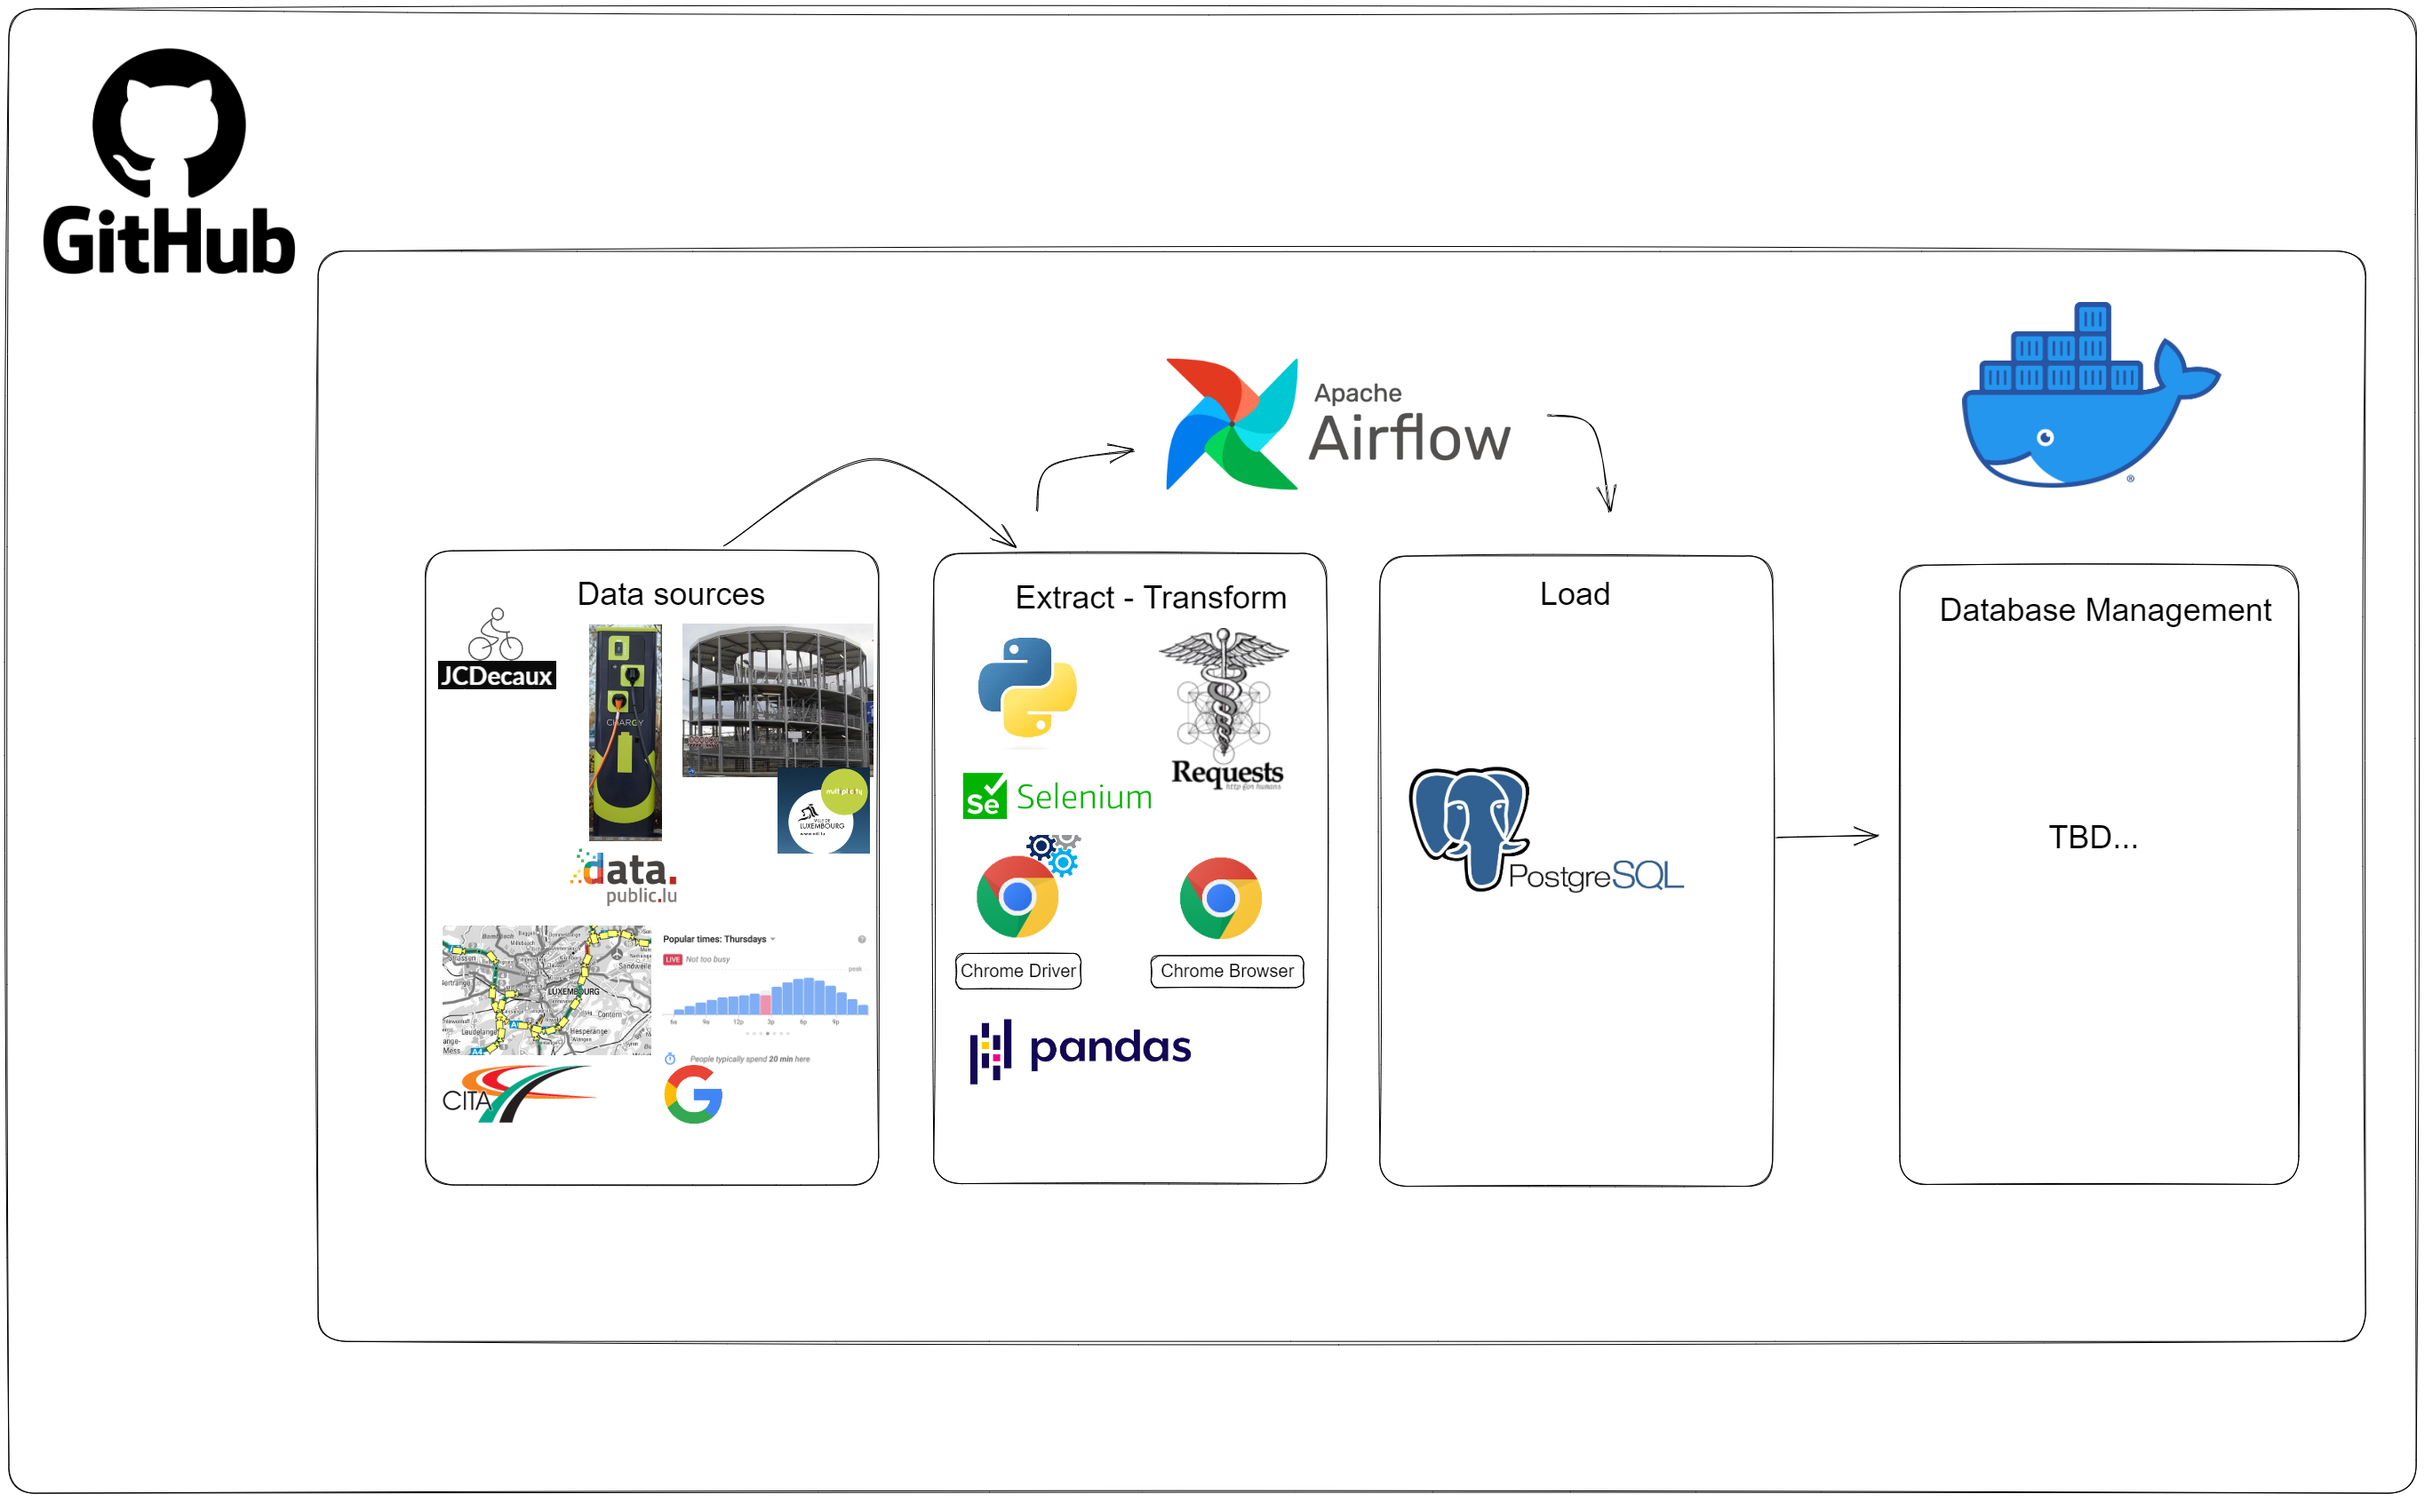
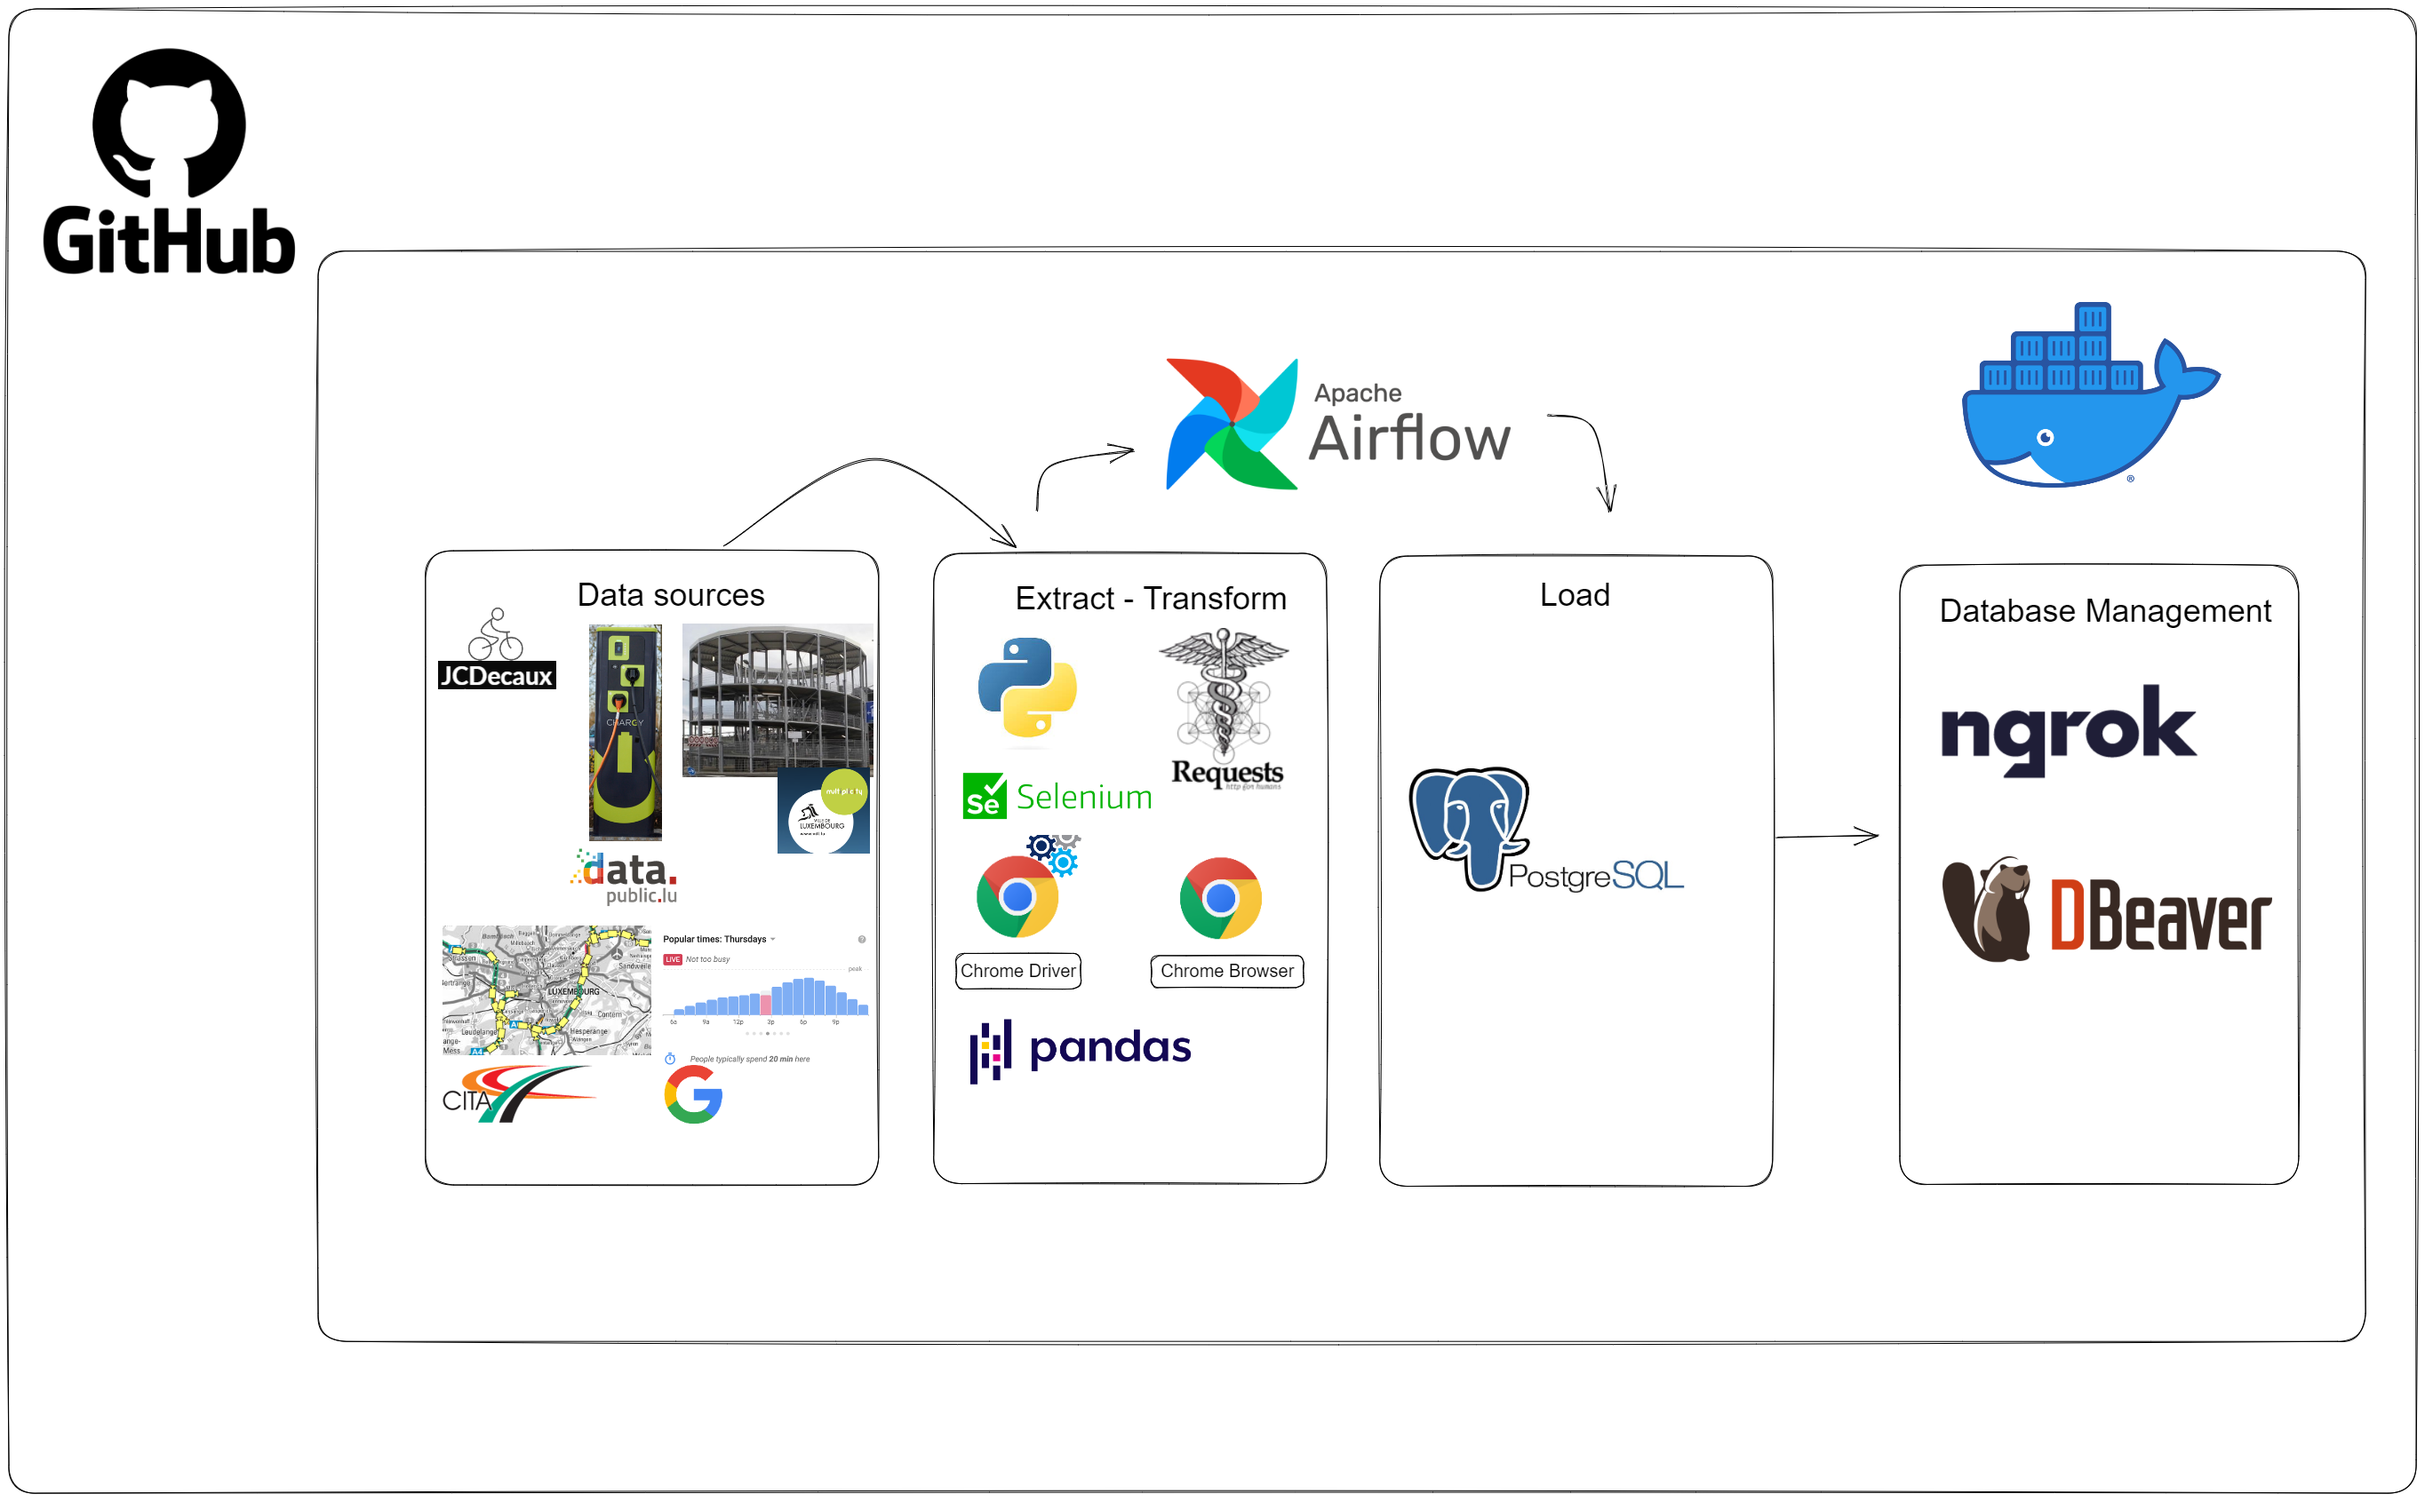
adding info about ngrok and dbeaver to expose the database

Changed region(s): [[0.7787, 0.5535, 0.9344, 0.6458], [0.7787, 0.4613, 0.9033, 0.5228], [0.8098, 0.3998, 0.9033, 0.4305]]

diff --git a/README.md b/README.md
@@ -37,13 +37,34 @@ Finally, the data is loaded into a [PostgreSQL](https://www.postgresql.org/) dat
 <br/>
 
 - **DB Management**:
-The management of the database is to be defined... 
+[Ngrok](https://ngrok.com/) is used to expose the PostgreSQL database to the internet.
+Then, [DBeaver](https://dbeaver.io/) is used to manage the database, even though it can be managed using other tools such as [DataGrip](https://www.jetbrains.com/datagrip/).
 <br/>
 
 The entire pipeline is containerized using [Docker](https://www.docker.com/). and it is orchestrated using [Apache Airflow](https://airflow.apache.org/).
 Finally, all the resources are stored in a [GitHub](https://github.com/jdpinedaj/luxmobi) repository.
 
 
+
+<!-- ---
+## Connecting to the PostgreSQL database
+
+Using ngrok to expose the PostgreSQL database to the internet:
+
+```
+ngrok tcp 5432
+```
+
+Then, use the host and port provided by ngrok to connect to the database using DBeaver or any other tool.
+
+Example of ngrok output:
+![ngrok output](readme-resources/ngrok_example.jpeg)
+
+Example of DBeaver connection:
+![DBeaver connection](readme-resources/dbeaver_example.png)
+
+
+ -->
 
 ---
 
